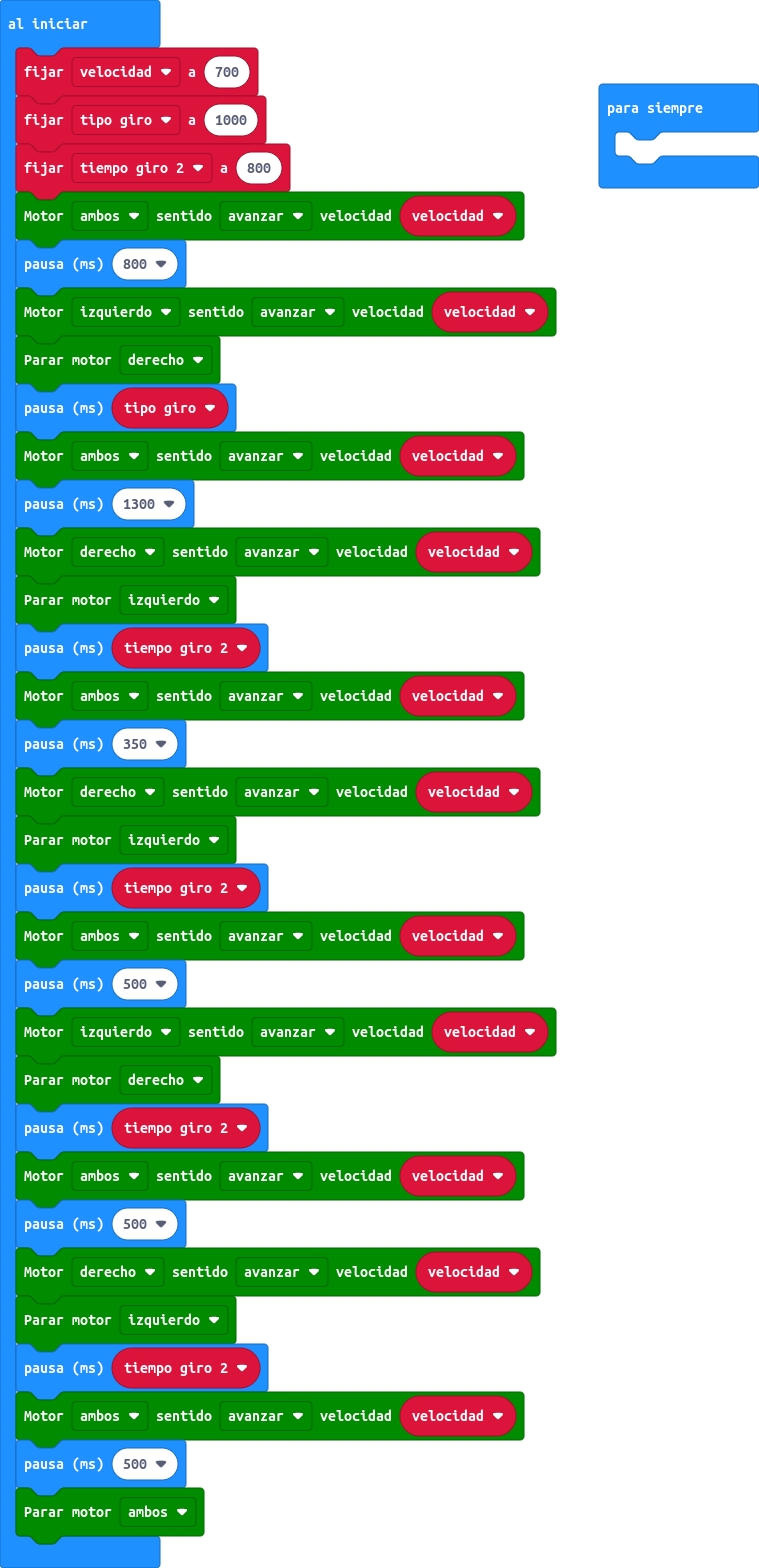
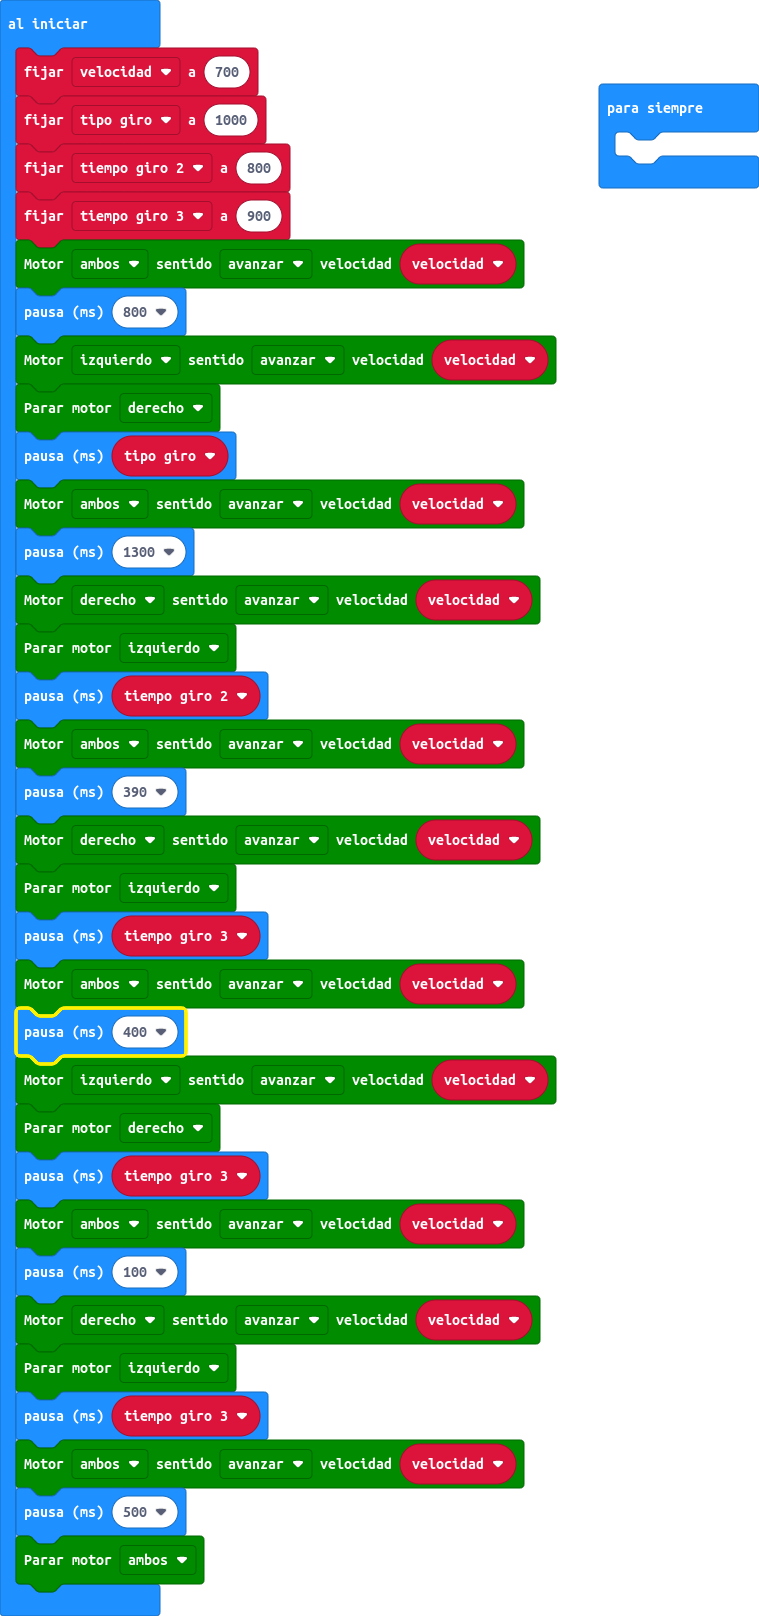
Actualizar main.blocks, main.ts

diff --git a/main.ts b/main.ts
@@ -1,6 +1,7 @@
 let velocidad = 700
 let tipo_giro = 1000
 let tiempo_giro_2 = 800
+let tiempo_giro_3 = 900
 maqueen.motorRun(maqueen.Motors.All, maqueen.Dir.CW, velocidad)
 basic.pause(800)
 maqueen.motorRun(maqueen.Motors.M1, maqueen.Dir.CW, velocidad)
@@ -12,20 +13,20 @@ maqueen.motorRun(maqueen.Motors.M2, maqueen.Dir.CW, velocidad)
 maqueen.motorStop(maqueen.Motors.M1)
 basic.pause(tiempo_giro_2)
 maqueen.motorRun(maqueen.Motors.All, maqueen.Dir.CW, velocidad)
-basic.pause(350)
+basic.pause(390)
 maqueen.motorRun(maqueen.Motors.M2, maqueen.Dir.CW, velocidad)
 maqueen.motorStop(maqueen.Motors.M1)
-basic.pause(tiempo_giro_2)
+basic.pause(tiempo_giro_3)
 maqueen.motorRun(maqueen.Motors.All, maqueen.Dir.CW, velocidad)
-basic.pause(500)
+basic.pause(400)
 maqueen.motorRun(maqueen.Motors.M1, maqueen.Dir.CW, velocidad)
 maqueen.motorStop(maqueen.Motors.M2)
-basic.pause(tiempo_giro_2)
+basic.pause(tiempo_giro_3)
 maqueen.motorRun(maqueen.Motors.All, maqueen.Dir.CW, velocidad)
-basic.pause(500)
+basic.pause(100)
 maqueen.motorRun(maqueen.Motors.M2, maqueen.Dir.CW, velocidad)
 maqueen.motorStop(maqueen.Motors.M1)
-basic.pause(tiempo_giro_2)
+basic.pause(tiempo_giro_3)
 maqueen.motorRun(maqueen.Motors.All, maqueen.Dir.CW, velocidad)
 basic.pause(500)
 maqueen.motorStop(maqueen.Motors.All)
